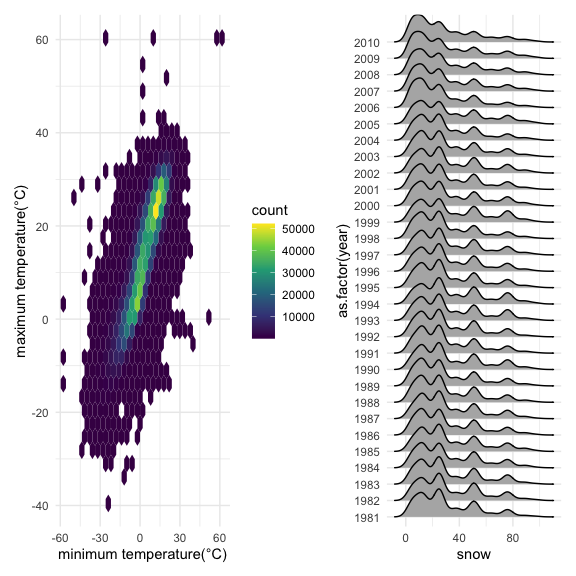
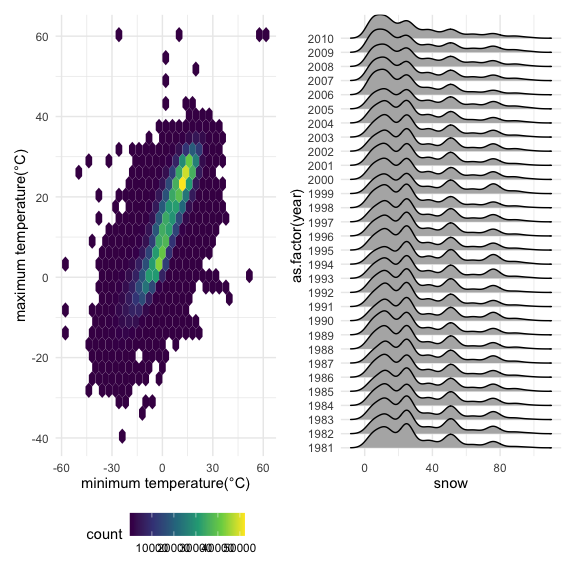
finish

diff --git a/p8105_hw3_dw3093.md b/p8105_hw3_dw3093.md
@@ -107,7 +107,7 @@ hexbin_plot=
     x = "minimum temperature(°C)",
     y = "maximum temperature(°C)",
     )+
-    theme_minimal()
+    theme(legend.position = "bottom")
 
 density_plot = 
   ny_noaa|>
